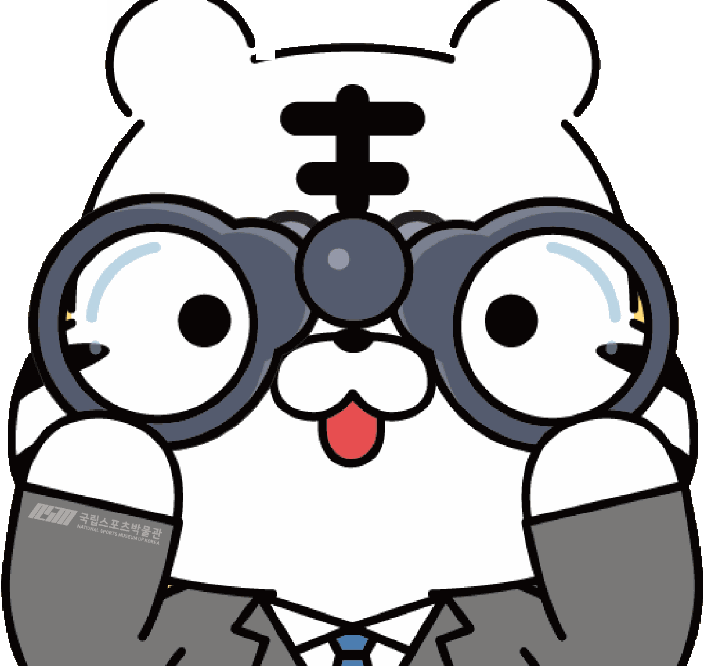
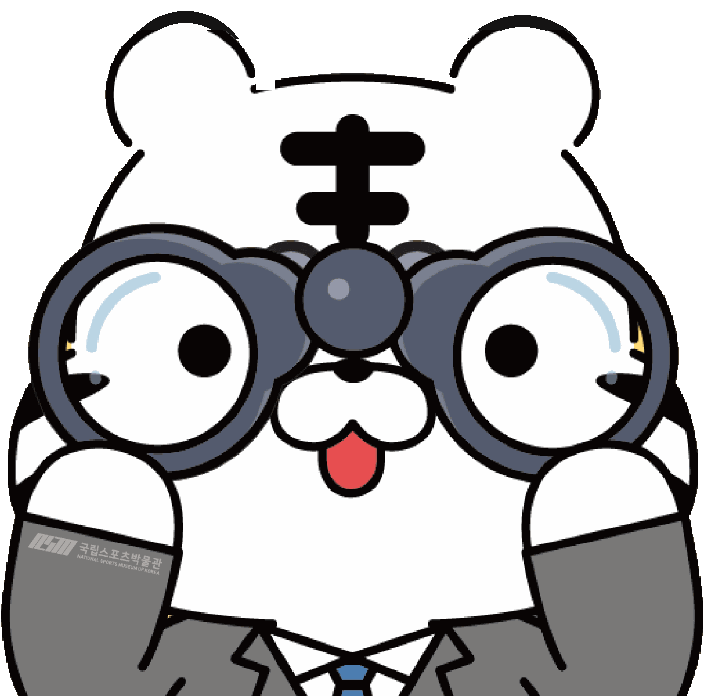
카운트다운 숫자·단위 한 줄 표시, 캐릭터 귀 잘림 보정
- 카운트다운 박스에서 숫자와 단위(일/시간/분/초)를 같은 줄에 나란히 표시
- 망원경 호랑이 이미지: 원본 파일에서 잘려 있던 귀 윗부분을 원형으로 복원하고,
  왼쪽 귀 옆 흰색 잔여 픽셀 제거 (캔버스 상단 30px 확장)

Claude-Session: https://claude.ai/code/session_01H7bN7Y7WtFmqezUAkuuZh5

Changed region(s): [[0.0, 0.0, 0.9778, 0.991], [0.7639, 0.9309, 0.7944, 0.961], [0.1833, 0.9309, 0.2139, 0.961]]

diff --git a/index.html b/index.html
@@ -63,9 +63,9 @@ h1,h2,h3{margin:0;font-weight:400}
 .plaque p{margin:0;font-family:var(--display);font-size:21px;line-height:1.3;color:#fff}
 .plaque em{font-style:normal;color:var(--yellow)}
 .countdown{position:relative;margin:22px 0 0;display:grid;grid-template-columns:repeat(4,minmax(0,1fr));gap:8px}
-.cd{background:#fff;border-radius:12px;padding:10px 0 8px;text-align:center;border:2px solid var(--navy)}
-.cd b{display:block;font-size:26px;font-weight:800;color:var(--navy);font-variant-numeric:tabular-nums;line-height:1.1}
-.cd small{font-size:12px;font-weight:600;color:#5A6B87}
+.cd{background:#fff;border-radius:12px;padding:12px 0 10px;text-align:center;border:2px solid var(--navy);white-space:nowrap}
+.cd b{display:inline-block;font-size:24px;font-weight:800;color:var(--navy);font-variant-numeric:tabular-nums;line-height:1.1;vertical-align:baseline}
+.cd small{display:inline-block;margin-left:3px;font-size:13px;font-weight:600;color:#5A6B87;vertical-align:baseline}
 .cd-note{position:relative;margin:8px 0 0;text-align:center;font-size:13px;font-weight:600;color:#7A5B1E}
 .hero-cta{position:relative;display:grid;grid-template-columns:1fr 1fr;gap:10px;padding:20px 0 28px}
 
